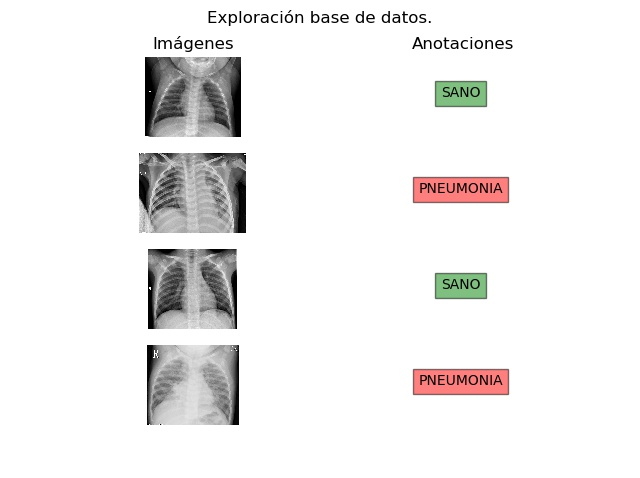
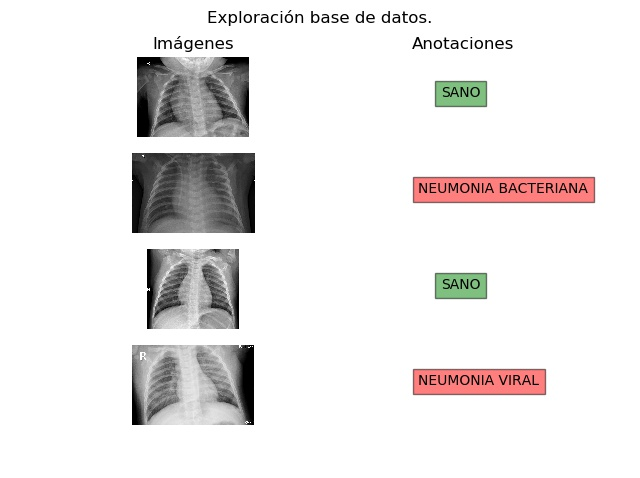
Arreglo base de datos

diff --git a/main.py b/main.py
@@ -8,28 +8,46 @@ import matplotlib.pyplot as plt
 df_test_normal = glob.glob(os.path.join('chest_xray/train/NORMAL','*.jpeg'))
 df_test_pneumonia = glob.glob(os.path.join('chest_xray/train/PNEUMONIA','*.jpeg'))
 
-print('Cantidad de datos en test/NORMAL',len(df_test_normal))
-print('Cantidad de datos en test/PNEUMONIA',len(df_test_normal))
+
+def organizar_datos(df):
+    list_norm = []
+    list_bact = []
+    list_virus = []
+    for i in range(0,len(df)):
+        if df[i].find('virus')!=-1:
+            list_virus.append(df[i])
+        elif df[i].find('bacteria')!=-1:
+            list_bact.append(df[i])
+        else:
+            list_norm.append(df[i])
+    return list_norm, list_virus, list_bact
+
+img_test_normal = organizar_datos(df_test_normal)[0]
+img_test_virus = organizar_datos(df_test_pneumonia)[1]
+img_test_bact = organizar_datos(df_test_pneumonia)[2]
+print(len(img_test_bact),len(img_test_normal),len(img_test_virus))
 
 figexp, ax = plt.subplots(4,2)
 figexp.suptitle('Exploración base de datos.')
 ax[0,0].set_title('Imágenes')
-ax[0][0].imshow(io.imread(df_test_normal[np.random.randint(0,len(df_test_normal))]),cmap='gray')
+ax[0][0].imshow(io.imread(img_test_normal[np.random.randint(0,len(img_test_normal))]),cmap='gray')
 ax[0][0].axis('off')
-ax[1][0].imshow(io.imread(df_test_pneumonia[np.random.randint(0,len(df_test_pneumonia))]),cmap='gray')
+ax[1][0].imshow(io.imread(img_test_bact[np.random.randint(0,len(img_test_bact))]),cmap='gray')
 ax[1][0].axis('off')
-ax[2][0].imshow(io.imread(df_test_normal[np.random.randint(0,len(df_test_normal))]),cmap='gray')
+ax[2][0].imshow(io.imread(img_test_normal[np.random.randint(0,len(img_test_normal))]),cmap='gray')
 ax[2][0].axis('off')
-ax[3][0].imshow(io.imread(df_test_pneumonia[np.random.randint(0,len(df_test_pneumonia))]),cmap='gray')
+ax[3][0].imshow(io.imread(img_test_virus[np.random.randint(0,len(img_test_virus))]),cmap='gray')
 ax[3][0].axis('off')
 ax[0,1].set_title('Anotaciones')
 ax[0][1].text(0.4,0.5,'SANO',bbox=dict(facecolor='green', alpha=0.5))
 ax[0][1].axis('off')
-ax[1][1].text(0.3,0.5,'PNEUMONIA',bbox=dict(facecolor='red', alpha=0.5))
+ax[1][1].text(0.3,0.5,'NEUMONIA BACTERIANA',bbox=dict(facecolor='red', alpha=0.5))
 ax[1][1].axis('off')
 ax[2][1].text(0.4,0.5,'SANO', bbox=dict(facecolor='green', alpha=0.5))
 ax[2][1].axis('off')
-ax[3][1].text(0.3,0.5,'PNEUMONIA',bbox=dict(facecolor='red', alpha=0.5))
+ax[3][1].text(0.3,0.5,'NEUMONIA VIRAL',bbox=dict(facecolor='red', alpha=0.5))
 ax[3][1].axis('off')
 
 plt.show()
+
+print((io.imread(df_test_normal[np.random.randint(0,len(df_test_normal))])).dtype)
